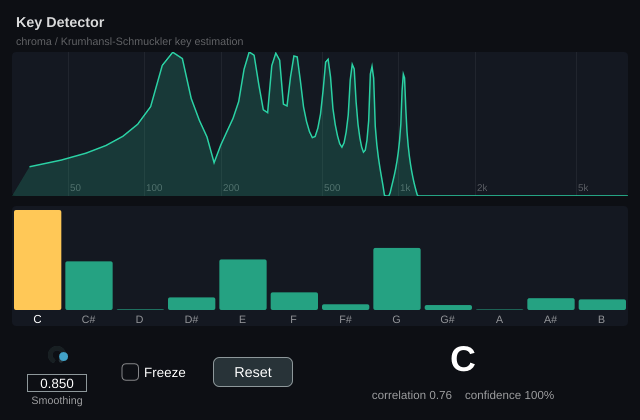
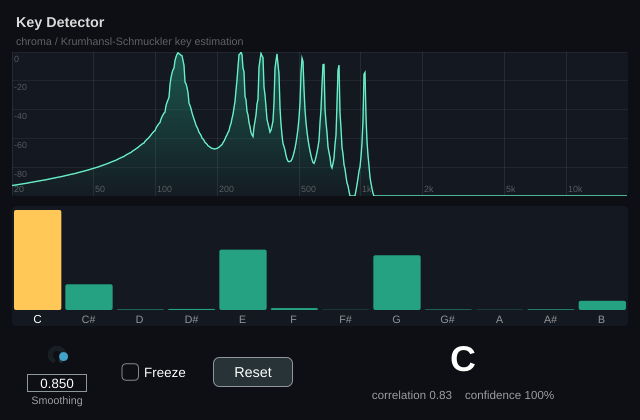
spectrum: higher-detail analyzer
- Processor: FFT 4096 -> 8192 (order 13) with 75%% overlap via a circular buffer;
  ~5.9 Hz/bin and a new frame every ~43 ms (also gives the key detector 4x frames).
- Display: per-pixel log-frequency resampling (interpolate low end, peak-aggregate
  high end), fast-attack/slow-release smoothing, peak-hold trace, dB + frequency
  grids, gradient fill, 20 Hz - 20 kHz range.

diff --git a/Source/SpectrumAnalyzer.cpp b/Source/SpectrumAnalyzer.cpp
@@ -7,86 +7,165 @@ void SpectrumDisplay::setSpectrum (const std::vector<float>& magnitudes, double 
 {
     mags       = magnitudes;
     sampleRate = newSampleRate;
+    rebuildColumns();
+}
+
+void SpectrumDisplay::resized()
+{
+    // Force the per-pixel buffers to be rebuilt at the new width.
+    colSmooth.clear();
+    colPeak.clear();
+    rebuildColumns();
+}
+
+float SpectrumDisplay::freqToX (float hz) const noexcept
+{
+    const float lo = std::log (minFreq), hi = std::log (maxFreq);
+    const float f  = juce::jlimit (minFreq, maxFreq, hz);
+    return (float) getWidth() * (std::log (f) - lo) / (hi - lo);
+}
+
+float SpectrumDisplay::dbToY (float db) const noexcept
+{
+    return juce::jmap (juce::jlimit (minDb, maxDb, db), minDb, maxDb,
+                       (float) getHeight(), 0.0f);
+}
+
+void SpectrumDisplay::rebuildColumns()
+{
+    const int w = getWidth();
+    if (w <= 0 || mags.size() < 4 || sampleRate <= 0.0)
+        return;
+
+    if ((int) colSmooth.size() != w)
+    {
+        colSmooth.assign ((size_t) w, 0.0f);
+        colPeak  .assign ((size_t) w, 0.0f);
+    }
+
+    const int   numBins = (int) mags.size();
+    const float binHz   = (float) (sampleRate / (2.0 * numBins));
+
+    // Running normalisation reference: instant attack, slow release, so the trace
+    // fills the view when there's signal and sinks to the floor on silence.
+    float gpeak = 1.0e-9f;
+    for (int k = 1; k < numBins; ++k)
+    {
+        const float f = k * binHz;
+        if (f >= minFreq && f <= maxFreq)
+            gpeak = juce::jmax (gpeak, mags[(size_t) k]);
+    }
+    refPeak = gpeak > refPeak ? gpeak : (refPeak * 0.9f + gpeak * 0.1f);
+    refPeak = juce::jmax (refPeak, 1.0e-9f);
+
+    const float logLo = std::log (minFreq);
+    const float logHi = std::log (maxFreq);
+
+    for (int x = 0; x < w; ++x)
+    {
+        const float fLo = std::exp (logLo + (logHi - logLo) * ((float) x)       / (float) w);
+        const float fHi = std::exp (logLo + (logHi - logLo) * ((float) (x + 1)) / (float) w);
+
+        const int kLo = (int) std::ceil  (fLo / binHz);
+        const int kHi = (int) std::floor (fHi / binHz);
+
+        float m = 0.0f;
+        if (kHi >= kLo)
+        {
+            // Column spans one or more bins: take the peak (keeps narrow tones).
+            for (int k = juce::jmax (1, kLo); k <= juce::jmin (numBins - 1, kHi); ++k)
+                m = juce::jmax (m, mags[(size_t) k]);
+        }
+        else
+        {
+            // Column narrower than the bin spacing (low end): interpolate.
+            const float fc = std::sqrt (fLo * fHi);
+            const float bf = fc / binHz;
+            int   k0 = juce::jlimit (1, numBins - 2, (int) bf);
+            const float fr = juce::jlimit (0.0f, 1.0f, bf - (float) k0);
+            m = mags[(size_t) k0] * (1.0f - fr) + mags[(size_t) (k0 + 1)] * fr;
+        }
+
+        // Fast attack, slower release for a readable, less jittery trace.
+        auto& s = colSmooth[(size_t) x];
+        s = (m >= s) ? m : (s * 0.7f + m * 0.3f);
+
+        // Peak hold with a slow fall.
+        auto& p = colPeak[(size_t) x];
+        p = (m > p) ? m : (p * 0.985f);
+    }
+
     repaint();
 }
 
 void SpectrumDisplay::paint (juce::Graphics& g)
 {
     auto bounds = getLocalBounds().toFloat();
+    const float w = bounds.getWidth();
+    const float h = bounds.getHeight();
 
     g.setColour (juce::Colour (0xff141821));
     g.fillRoundedRectangle (bounds, 4.0f);
 
-    const float w = bounds.getWidth();
-    const float h = bounds.getHeight();
-
-    // ---- Frequency grid lines (log spaced) -------------------------------------
-    auto freqToX = [this, w] (float f)
+    // ---- dB grid (horizontal) ---------------------------------------------------
+    g.setFont (10.0f);
+    for (int db = 0; db >= -80; db -= 20)
     {
-        const float lo = std::log10 (minFreq);
-        const float hi = std::log10 (maxFreq);
-        return juce::jmap (std::log10 (juce::jlimit (minFreq, maxFreq, f)), lo, hi, 0.0f, w);
-    };
+        const float y = dbToY ((float) db);
+        g.setColour (juce::Colours::white.withAlpha (0.06f));
+        g.drawHorizontalLine ((int) y, 0.0f, w);
+        g.setColour (juce::Colours::white.withAlpha (0.28f));
+        g.drawText (juce::String (db), 2, (int) y + 1, 26, 12, juce::Justification::left, false);
+    }
 
-    g.setFont (11.0f);
-    for (float f : { 50.0f, 100.0f, 200.0f, 500.0f, 1000.0f, 2000.0f, 5000.0f })
+    // ---- frequency grid (vertical) ----------------------------------------------
+    const float labelledFreqs[] = { 20, 50, 100, 200, 500, 1000, 2000, 5000, 10000, 20000 };
+    for (float f : labelledFreqs)
     {
         const float x = freqToX (f);
-        g.setColour (juce::Colours::white.withAlpha (0.06f));
+        g.setColour (juce::Colours::white.withAlpha (0.08f));
         g.drawVerticalLine ((int) x, 0.0f, h);
         g.setColour (juce::Colours::white.withAlpha (0.30f));
-        g.drawText (f >= 1000.0f ? juce::String (f / 1000.0f, 0) + "k" : juce::String ((int) f),
-                    (int) x + 2, (int) h - 14, 34, 12, juce::Justification::left, false);
+        const juce::String txt = f >= 1000.0f ? juce::String ((int) (f / 1000.0f)) + "k"
+                                              : juce::String ((int) f);
+        g.drawText (txt, (int) x + 2, (int) h - 13, 34, 12, juce::Justification::left, false);
     }
 
-    if (mags.size() < 4 || sampleRate <= 0.0)
+    if (colSmooth.empty())
         return;
 
-    const int   numBins = (int) mags.size();
-    const float binHz   = (float) (sampleRate / (2.0 * numBins));
-
-    // Normalise against the current peak so the trace always fills the view.
-    float peak = 1.0e-9f;
-    for (float m : mags)
-        peak = juce::jmax (peak, m);
-
-    auto magToY = [h] (float magNorm)
+    auto magToY = [this] (float linear)
     {
-        // gain -> dB (kept local so this graphics component only needs gui_basics).
-        const float db = magNorm > 1.0e-9f ? 20.0f * std::log10 (magNorm) : minDb;
-        return juce::jmap (juce::jlimit (minDb, maxDb, db), minDb, maxDb, h, 0.0f);
+        const float db = linear > 1.0e-9f ? 20.0f * std::log10 (linear / refPeak) : minDb;
+        return dbToY (db);
     };
 
-    // ---- Build the spectrum path -----------------------------------------------
+    // ---- filled spectrum --------------------------------------------------------
     juce::Path path;
-    bool started = false;
+    path.startNewSubPath (0.0f, magToY (colSmooth[0]));
+    for (int x = 1; x < (int) colSmooth.size(); ++x)
+        path.lineTo ((float) x, magToY (colSmooth[(size_t) x]));
 
-    for (int k = 1; k < numBins; ++k)
-    {
-        const float f = k * binHz;
-        if (f < minFreq || f > maxFreq)
-            continue;
+    juce::Path filled = path;
+    filled.lineTo (w, h);
+    filled.lineTo (0.0f, h);
+    filled.closeSubPath();
 
-        const float x = freqToX (f);
-        const float y = magToY (mags[(size_t) k] / peak);
+    g.setGradientFill (juce::ColourGradient (juce::Colour (0xff2bd1a4).withAlpha (0.35f), 0, 0,
+                                             juce::Colour (0xff2bd1a4).withAlpha (0.02f), 0, h, false));
+    g.fillPath (filled);
 
-        if (! started) { path.startNewSubPath (x, y); started = true; }
-        else            path.lineTo (x, y);
-    }
+    g.setColour (juce::Colour (0xff36e0b0));
+    g.strokePath (path, juce::PathStrokeType (1.4f));
 
-    if (started)
-    {
-        juce::Path filled = path;
-        filled.lineTo (w, h);
-        filled.lineTo (freqToX (minFreq), h);
-        filled.closeSubPath();
+    // ---- peak-hold trace --------------------------------------------------------
+    juce::Path peak;
+    peak.startNewSubPath (0.0f, magToY (colPeak[0]));
+    for (int x = 1; x < (int) colPeak.size(); ++x)
+        peak.lineTo ((float) x, magToY (colPeak[(size_t) x]));
 
-        g.setColour (juce::Colour (0xff2bd1a4).withAlpha (0.18f));
-        g.fillPath (filled);
-
-        g.setColour (juce::Colour (0xff2bd1a4));
-        g.strokePath (path, juce::PathStrokeType (1.5f));
-    }
+    g.setColour (juce::Colours::white.withAlpha (0.35f));
+    g.strokePath (peak, juce::PathStrokeType (1.0f));
 }
 
 //==============================================================================

diff --git a/Source/PluginProcessor.h b/Source/PluginProcessor.h
@@ -31,17 +31,18 @@ class KeyDetectorAudioProcessor : public juce::AudioProcessor
 public:
     //==============================================================================
     // FFT configuration.
-    //   fftOrder = 12  ->  fftSize = 4096 samples.
-    //   At 48 kHz that is ~11.7 Hz/bin and a new estimate every ~85 ms.
-    //   Rationale: 4096 is a good balance between frequency resolution (enough to
-    //   separate mid/high partials into distinct pitch classes) and update rate.
-    //   Lower notes are resolved via their higher harmonics, which land in
-    //   well-resolved bins — this is why octave-collapsed chroma stays robust even
-    //   though a single 11.7 Hz bin cannot resolve a bass semitone directly.
-    //   Increase to 13 (8192) for finer low-end resolution at a slower update rate.
-    static constexpr int fftOrder = 12;
-    static constexpr int fftSize  = 1 << fftOrder; // 4096
-    static constexpr int numBins  = fftSize / 2;   // 2048 usable magnitude bins
+    //   fftOrder = 13  ->  fftSize = 8192 samples.
+    //   At 48 kHz that is ~5.9 Hz/bin.  We analyse with 75% overlap (hopSize =
+    //   fftSize/4), so a new spectrum/key frame is produced every ~43 ms even
+    //   though the window is ~171 ms long.  The larger window sharpens low-end
+    //   resolution (bass notes / their partials land in distinct bins) while the
+    //   overlap keeps the display responsive and gives the key detector 4x more
+    //   frames to average.  Lower notes are also reinforced by their higher
+    //   harmonics, which is why octave-collapsed chroma stays robust.
+    static constexpr int fftOrder = 13;
+    static constexpr int fftSize  = 1 << fftOrder; // 8192
+    static constexpr int numBins  = fftSize / 2;   // 4096 usable magnitude bins
+    static constexpr int hopSize  = fftSize / 4;   // 75% overlap
 
     //==============================================================================
     KeyDetectorAudioProcessor();
@@ -109,9 +110,10 @@ private:
     juce::dsp::WindowingFunction<float> window { (size_t) fftSize,
                                                  juce::dsp::WindowingFunction<float>::hann };
 
-    std::array<float, fftSize>      fifo {};       // incoming mono samples
+    std::array<float, fftSize>      fifo {};       // circular buffer of mono samples
     std::array<float, fftSize * 2>  fftData {};    // real input + FFT workspace
-    int  fifoIndex = 0;
+    int  writePos      = 0;                        // next write index into fifo
+    int  hopCountdown  = fftSize;                  // samples until next analysis frame
 
     ChromaKeyDetector detector;
     double currentSampleRate = 44100.0;

diff --git a/Source/SpectrumAnalyzer.h b/Source/SpectrumAnalyzer.h
@@ -6,24 +6,41 @@
 #include <vector>
 
 //==============================================================================
-/** Draws an FFT magnitude spectrum on a log-frequency x-axis and a dB y-axis. */
+/** A detailed FFT spectrum display.
+
+    The raw magnitude spectrum is resampled into one column per horizontal pixel
+    on a log-frequency axis, so every part of the range gets uniform detail (low
+    frequencies are interpolated; high frequencies are peak-aggregated across the
+    many bins that fall in each column).  Each column has fast-attack / slow-release
+    smoothing plus a slowly-falling peak-hold trace, and the view has dB + frequency
+    grids. */
 class SpectrumDisplay : public juce::Component
 {
 public:
     SpectrumDisplay() = default;
 
-    /** Give it the latest linear magnitudes (bin k = k * sampleRate / (2*numBins)). */
+    /** Feed the latest linear magnitudes (bin k = k * sampleRate / (2*numBins)).
+        This advances the per-column smoothing/peak state and repaints. */
     void setSpectrum (const std::vector<float>& magnitudes, double sampleRate);
 
     void paint (juce::Graphics& g) override;
+    void resized() override;
 
 private:
-    std::vector<float> mags;          // latest magnitudes
+    void rebuildColumns();                 // resample mags -> per-pixel columns
+    float freqToX (float hz) const noexcept;
+    float dbToY   (float db) const noexcept;
+
+    std::vector<float> mags;               // latest raw magnitudes
     double sampleRate = 44100.0;
 
-    static constexpr float minFreq = 30.0f;    // Hz, low edge of the display
-    static constexpr float maxFreq = 8000.0f;  // Hz, high edge
-    static constexpr float minDb   = -90.0f;
+    std::vector<float> colSmooth;          // per-pixel smoothed magnitude (linear)
+    std::vector<float> colPeak;            // per-pixel peak-hold magnitude (linear)
+    float refPeak = 1.0e-6f;               // running normalisation reference
+
+    static constexpr float minFreq = 20.0f;
+    static constexpr float maxFreq = 20000.0f;
+    static constexpr float minDb   = -100.0f;
     static constexpr float maxDb   =  0.0f;
 
     JUCE_DECLARE_NON_COPYABLE_WITH_LEAK_DETECTOR (SpectrumDisplay)

diff --git a/Source/PluginProcessor.cpp b/Source/PluginProcessor.cpp
@@ -45,7 +45,8 @@ void KeyDetectorAudioProcessor::prepareToPlay (double sampleRate, int)
 
     fifo.fill (0.0f);
     fftData.fill (0.0f);
-    fifoIndex = 0;
+    writePos     = 0;
+    hopCountdown = fftSize; // wait for one full window before the first analysis
 
     for (auto& c : publishedChroma)
         c.store (0.0f);
@@ -70,19 +71,26 @@ bool KeyDetectorAudioProcessor::isBusesLayoutSupported (const BusesLayout& layou
 //==============================================================================
 void KeyDetectorAudioProcessor::pushSampleToFifo (float sample) noexcept
 {
-    if (fifoIndex == fftSize)
-    {
-        // Frame complete: copy into the FFT workspace and analyse.
-        std::copy (fifo.begin(), fifo.end(), fftData.begin());
-        analyseFrame();
-        fifoIndex = 0;
-    }
+    // Circular write.  After the buffer is first filled we run an analysis every
+    // hopSize samples (overlapping windows), which is what makes the display update
+    // smoothly at high FFT sizes.
+    fifo[(size_t) writePos] = sample;
+    writePos = (writePos + 1) % fftSize;
 
-    fifo[(size_t) fifoIndex++] = sample;
+    if (--hopCountdown <= 0)
+    {
+        analyseFrame();
+        hopCountdown = hopSize;
+    }
 }
 
 void KeyDetectorAudioProcessor::analyseFrame()
 {
+    // Reconstruct the last fftSize samples in time order (oldest first).  After the
+    // most recent write, writePos points at the oldest sample in the ring.
+    for (int i = 0; i < fftSize; ++i)
+        fftData[(size_t) i] = fifo[(size_t) ((writePos + i) % fftSize)];
+
     if (resetRequested.exchange (false))
     {
         detector.reset();

diff --git a/README.md b/README.md
@@ -42,13 +42,16 @@ KeyDetector/
 
 ## Algorithmic choices (and why)
 
-- **FFT size = 4096 (order 12), Hann window.** ~11.7 Hz/bin @ 48 kHz and a new
-  estimate every ~85 ms — a good resolution/latency trade-off. The Hann window
-  suppresses spectral leakage so pitch energy stays in the right bins. Low notes
-  aren't resolved directly by a single bin, but their **harmonics** land in
-  well-resolved higher bins and reinforce the correct pitch class, which is what
-  makes octave-collapsed chroma robust. Bump to order 13/14 for finer bass
-  resolution at a slower update rate.
+- **FFT size = 8192 (order 13), Hann window, 75% overlap.** ~5.9 Hz/bin @ 48 kHz
+  for sharp low-end resolution, with a new frame every ~43 ms (hop = 2048) so the
+  display stays responsive and the key detector gets 4x more frames to average.
+  The Hann window suppresses spectral leakage so pitch energy stays in the right
+  bins. Low notes are reinforced by their **harmonics** in well-resolved higher
+  bins, which keeps octave-collapsed chroma robust.
+- **Spectrum display** resamples the magnitude spectrum into one column per pixel
+  on a log-frequency axis (interpolating at the low end, peak-aggregating at the
+  high end) with fast-attack / slow-release smoothing and a peak-hold trace, so
+  there is uniform detail across 20 Hz – 20 kHz.
 - **Chroma binning uses the supplied equal-tempered table (A4 = 440 Hz).** Every
   in-band FFT bin (55 Hz–5 kHz) is mapped to the **nearest reference note**
   (in log-frequency) and its magnitude is added to that note's pitch class. Each
